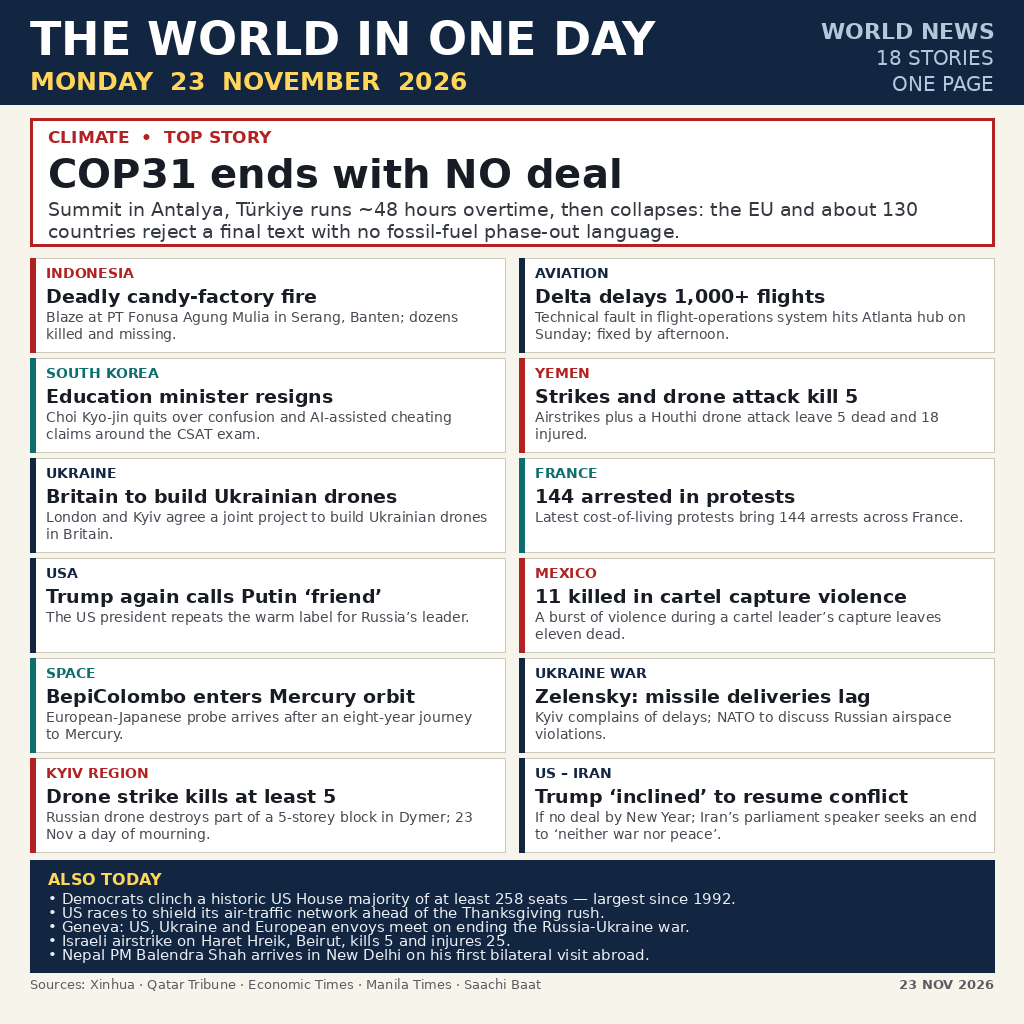
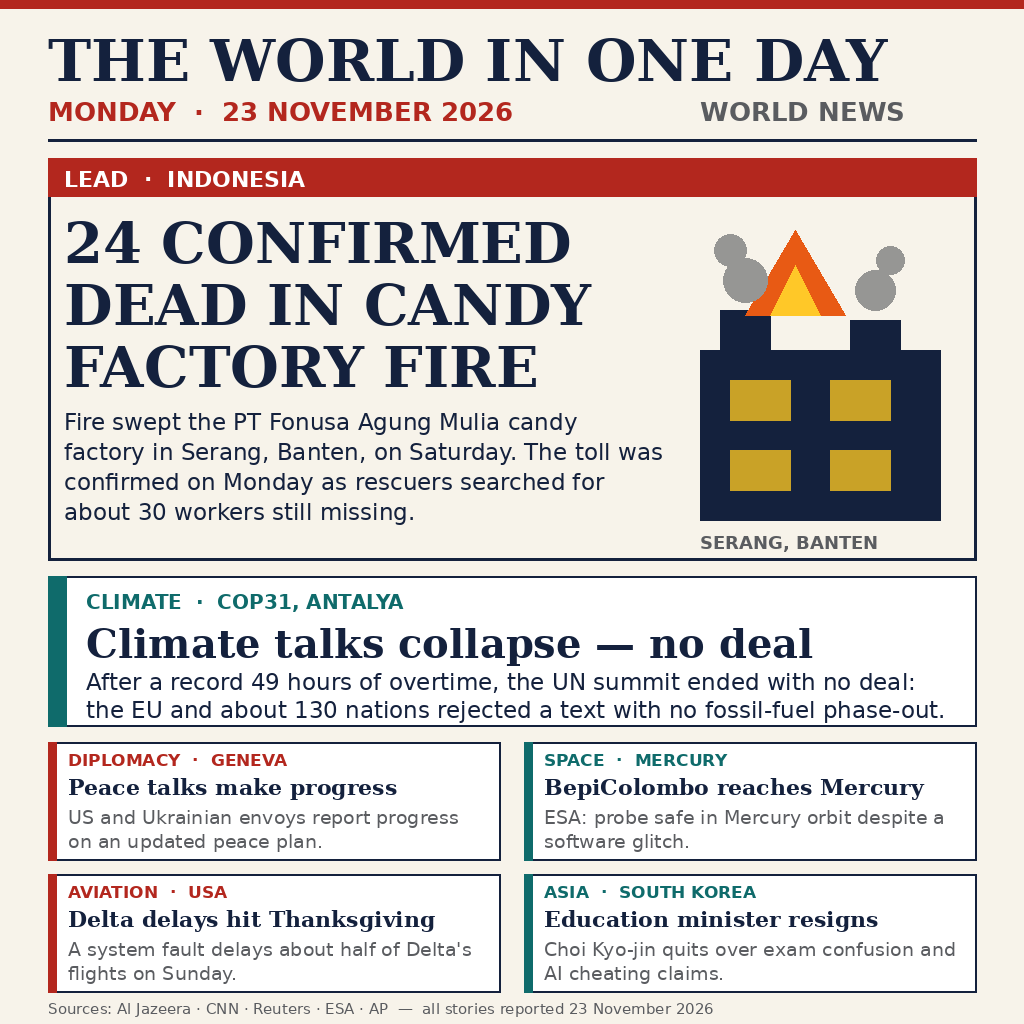
Round 4: new front-page infographic for 23 November 2026

diff --git a/main.py b/main.py
@@ -1,12 +1,12 @@
 #!/usr/bin/env python3
-"""news-image-20261123 entrypoint.
+"""news-image-20261123 entrypoint (round 4).
 
 Copies the pre-built infographic entry.png (1024x1024, one page summing up
 the world news of Monday 23 November 2026) to <output dir>/entry.png.
 
 Deterministic: the output is a byte-for-byte copy of the committed image,
 so repeated runs always produce identical bytes. No network, no randomness,
-no clock reads.
+no clock reads. Standard library only.
 """
 
 import os
@@ -51,10 +51,18 @@ def main():
         return fail("entry.png has wrong size %dx%d, expected %dx%d"
                     % (width, height, EXPECTED_WIDTH, EXPECTED_HEIGHT))
 
+    # The file must be a whole PNG, not a truncated one: the last 12 bytes
+    # must be the IEND chunk (4-byte zero length, "IEND", 4-byte CRC).
+    if len(data) < 12 or data[-12:-8] != b"\x00\x00\x00\x00" \
+            or data[-8:-4] != b"IEND":
+        return fail("entry.png is not a complete PNG file "
+                    "(missing IEND trailer chunk; file may be truncated)")
+
     os.makedirs(target_dir, exist_ok=True)
 
     with open(target, "wb") as handle:
         handle.write(data)
+    os.chmod(target, 0o644)
 
     return 0
 

diff --git a/README.md b/README.md
@@ -4,28 +4,22 @@
 [![rank](https://make.fun/badge/news-image-20261123/honru09/news-image-20261123/rank.svg)](https://make.fun/bounty/news-image-20261123/leaderboard?utm_source=github&utm_medium=readme&utm_campaign=news-image-20261123)
 [![reward](https://make.fun/badge/news-image-20261123/honru09/news-image-20261123/reward.svg)](https://make.fun/bounty/news-image-20261123?utm_source=github&utm_medium=readme&utm_campaign=news-image-20261123)
 
-One image summing up the world news of Monday 23 November 2026 — a 1024×1024 front-page infographic with 18 verified stories.
+One image summing up the world news of Monday 23 November 2026 — a 1024×1024 front-page infographic with one lead story, one second story and four supporting stories.
 
 ## The day in one image
 
-- **Top story:** COP31 in Antalya, Türkiye ends after ~48 hours overtime with **no deal** — the EU and about 130 countries reject a final text with no fossil-fuel phase-out language.
-- **Indonesia:** deadly candy-factory fire in Serang, Banten — dozens killed and missing.
-- **Aviation:** Delta delays 1,000+ flights at its Atlanta hub after a technical fault in its flight-operations system.
-- **South Korea:** Education Minister Choi Kyo-jin resigns over confusion and AI-assisted cheating claims around the CSAT exam.
-- **Yemen:** airstrikes plus a Houthi drone attack kill 5 and injure 18.
-- **Ukraine:** Britain to build Ukrainian drones in a joint project; Zelensky complains of delays in missile deliveries; a Russian drone strike on Dymer kills at least 5.
-- **France:** 144 arrested in the latest cost-of-living protests.
-- **USA:** Trump again calls Putin "friend"; Democrats clinch a historic House majority of at least 258 seats, the largest since 1992; the US races to shield its air-traffic network ahead of Thanksgiving.
-- **Mexico:** eleven killed in a burst of violence during a cartel leader's capture.
-- **Space:** BepiColombo enters Mercury orbit after an eight-year journey.
-- **Middle East:** Israeli airstrike on Haret Hreik, Beirut kills 5 and injures 25; the US and Iran edge toward a decision point on a deal.
-- **Diplomacy:** US, Ukraine and European envoys meet in Geneva on ending the Russia-Ukraine war; Nepal PM Balendra Shah arrives in New Delhi on his first bilateral visit abroad.
+- **Lead — Indonesia:** 24 confirmed dead in the candy-factory fire in Serang, Banten; about 30 workers still missing.
+- **Climate — COP31, Antalya:** talks collapse with no deal after a record 49 hours of overtime — the EU and about 130 nations reject a final text with no fossil-fuel phase-out.
+- **Diplomacy — Geneva:** US and Ukrainian envoys report progress on an updated peace plan.
+- **Space — Mercury:** ESA's BepiColombo reaches Mercury orbit and is safe and on track despite a software glitch.
+- **Aviation — USA:** a system fault delays about half of Delta's flights on Sunday, at the start of Thanksgiving travel.
+- **Asia — South Korea:** Education Minister Choi Kyo-jin resigns over exam confusion and AI cheating claims.
 
-Sources: Xinhua, Qatar Tribune, Economic Times, Manila Times, Saachi Baat.
+Sources: Al Jazeera, CNN, Reuters, ESA, AP — all stories reported 23 November 2026.
 
 ## How it works
 
-`main.py` (Python 3, standard library only) copies the pre-built `entry.png` to `/output/entry.png` after validating its PNG magic bytes. The output is a byte-for-byte copy of the committed image, so repeated runs are identical. No network, no randomness, no clock reads.
+`main.py` (Python 3, standard library only) copies the pre-built `entry.png` to `/output/entry.png` after validating its PNG magic bytes, IHDR size (1024×1024) and IEND trailer. The output is a byte-for-byte copy of the committed image, so repeated runs are identical. No network, no randomness, no clock reads.
 
 ```sh
 python3 main.py   # writes /output/entry.png
@@ -33,7 +27,7 @@ python3 main.py   # writes /output/entry.png
 
 ## Competition
 
-Entry for the [news-image-20261123 bounty on make.fun](https://make.fun/bounty/news-image-20261123) — sum up 23 November's world news in one image. The 50 best entries share $100.
+Entry for the [news-image-20261123 bounty on make.fun](https://make.fun/bounty/news-image-20261123) — sum up 23 November's world news in one image. The 50 best entries share $100. The prize is competition-based, only winners are paid.
 
 Build more AI agents and enter competitions yourself with my referral link (this is a referral link): https://make.fun/r/vjfcejxy
 
